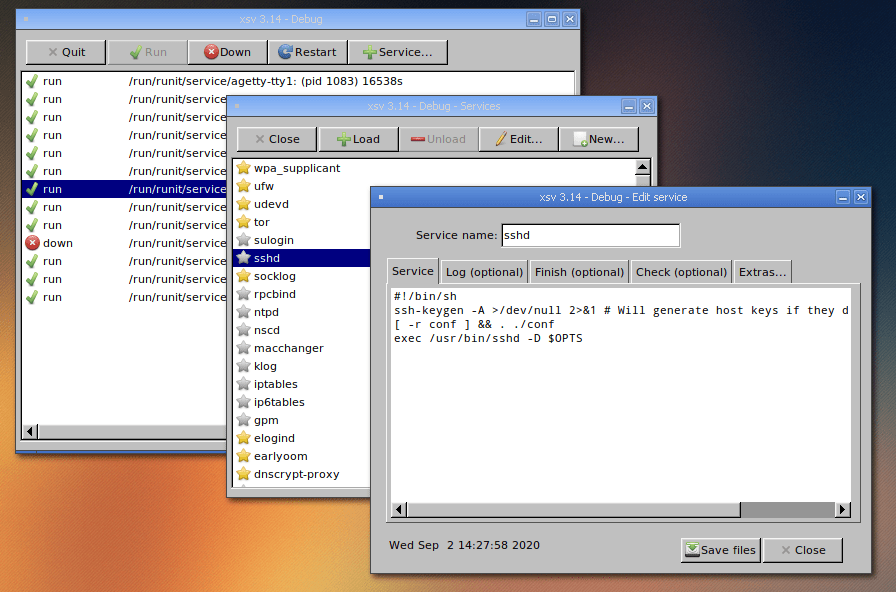
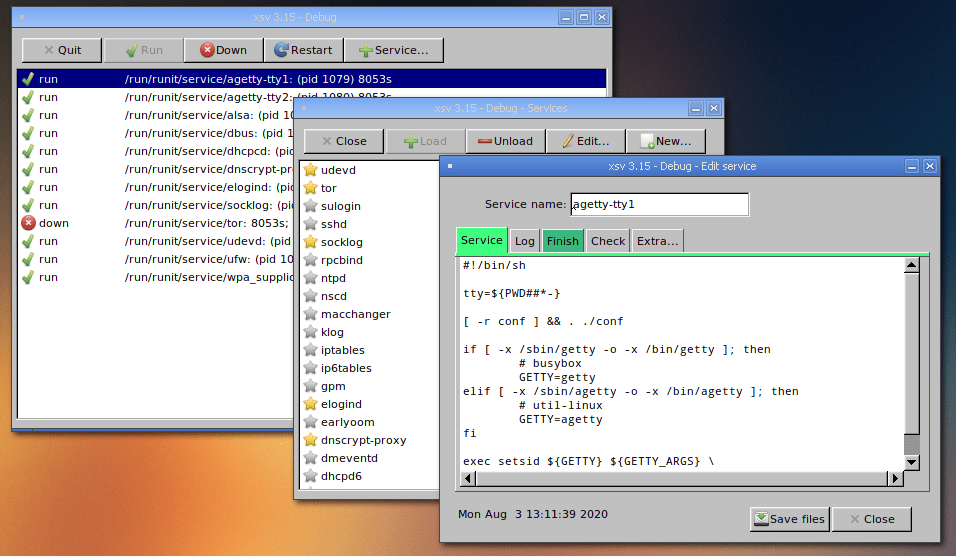
Indicate with color which files were uploaded

diff --git a/src/xsv.cpp b/src/xsv.cpp
@@ -858,22 +858,39 @@ static void EditLoad(struct NewEditData* saveNewEditData)
 
 	tbuf[TBUF_SERV]->loadfile(path.c_str());
 	saveNewEditData->hash[TBUF_SERV] = CalculateHash(tbuf[TBUF_SERV]);
-	saveNewEditData->box[BOX_TIME_SERV]->copy_label(GetModifyFileTime(path.c_str()));
+	saveNewEditData->time[LBL_TIME_SERV]->copy_label(GetModifyFileTime(path.c_str()));
 
 	MakeLogRunPath(service, path);
 	tbuf[TBUF_LOG]->loadfile(path.c_str());
 	saveNewEditData->hash[TBUF_LOG] = CalculateHash(tbuf[TBUF_LOG]);
-	saveNewEditData->box[BOX_TIME_LOG]->copy_label(GetModifyFileTime(path.c_str()));
+	saveNewEditData->time[LBL_TIME_LOG]->copy_label(GetModifyFileTime(path.c_str()));
 
 	MakeFinishPath(service, path);
 	tbuf[TBUF_FINISH]->loadfile(path.c_str());
 	saveNewEditData->hash[TBUF_FINISH] = CalculateHash(tbuf[TBUF_FINISH]);
-	saveNewEditData->box[BOX_TIME_FINISH]->copy_label(GetModifyFileTime(path.c_str()));
+	saveNewEditData->time[LBL_TIME_FINISH]->copy_label(GetModifyFileTime(path.c_str()));
 
 	MakeCheckPath(service, path);
 	tbuf[TBUF_CHECK]->loadfile(path.c_str());
 	saveNewEditData->hash[TBUF_CHECK] = CalculateHash(tbuf[TBUF_CHECK]);
-	saveNewEditData->box[BOX_TIME_CHECK]->copy_label(GetModifyFileTime(path.c_str()));
+	saveNewEditData->time[LBL_TIME_CHECK]->copy_label(GetModifyFileTime(path.c_str()));
+
+	if (tbuf[TBUF_SERV]->length() > 0)
+	{
+		saveNewEditData->label[LBL_SERV]->selection_color((Fl_Color)LBL_COLOR);
+	}
+	if (tbuf[TBUF_LOG]->length() > 0)
+	{
+		saveNewEditData->label[LBL_LOG]->selection_color((Fl_Color)LBL_COLOR);
+	}
+	if (tbuf[TBUF_FINISH]->length() > 0)
+	{
+		saveNewEditData->label[LBL_FINISH]->selection_color((Fl_Color)LBL_COLOR);
+	}
+	if (tbuf[TBUF_CHECK]->length() > 0)
+	{
+		saveNewEditData->label[LBL_CHECK]->selection_color((Fl_Color)LBL_COLOR);
+	}
 }
 
 
@@ -1073,44 +1090,45 @@ void EditNewCb(Fl_Widget* w, void* data)
 	saveNewEditData.hash[TBUF_FINISH] = 0;
 
 	Fl_Tabs* tabs = new Fl_Tabs(15, 50, 475, 265);
+	tabs->selection_color((Fl_Color)LBL_TAB_COLOR);
 
-		Fl_Group* grp0 = new Fl_Group(15, 75, 475, 300, "Service");
+		Fl_Group* lblService = new Fl_Group(15, 75, 475, 300, "Service");
 			tedt[TEDT_SERV] = new Fl_Text_Editor(20, 80, 460, 230);
 			tedt[TEDT_SERV]->box(FL_FLAT_BOX);
 			tedt[TEDT_SERV]->buffer(tbuf[TBUF_SERV]);
-			Fl_Box* boxTimeServ = new Fl_Box(15, 500 - 80 - 90, 460, 10, NULL);
-			boxTimeServ->align(Fl_Align(133 | FL_ALIGN_INSIDE));
-		grp0->end();
+			Fl_Box* lblTimeServ = new Fl_Box(15, 500 - 80 - 90, 460, 10, NULL);
+			lblTimeServ->align(Fl_Align(133 | FL_ALIGN_INSIDE));
+		lblService->end();
 
-		Fl_Group* grp1 = new Fl_Group(15, 75, 475, 300, "Log (optional)");
-			grp1->hide();
+		Fl_Group* lblLog = new Fl_Group(15, 75, 475, 300, "Log");
+			lblLog->hide();
 			tedt[TEDT_LOG] = new Fl_Text_Editor(20, 80, 460, 230);
 			tedt[TEDT_LOG]->box(FL_FLAT_BOX);
 			tedt[TEDT_LOG]->buffer(tbuf[TBUF_LOG]);
-			Fl_Box* boxTimeLog = new Fl_Box(15, 500 - 80 - 90, 460, 10, NULL);
-			boxTimeLog->align(Fl_Align(133 | FL_ALIGN_INSIDE));
-		grp1->end();
+			Fl_Box* lblTimeLog = new Fl_Box(15, 500 - 80 - 90, 460, 10, NULL);
+			lblTimeLog->align(Fl_Align(133 | FL_ALIGN_INSIDE));
+		lblLog->end();
 
-		Fl_Group* grp2 = new Fl_Group(15, 75, 475, 300, "Finish (optional)");
-			grp2->hide();
+		Fl_Group* lblFinish = new Fl_Group(15, 75, 475, 300, "Finish");
+			lblFinish->hide();
 			tedt[TEDT_FINISH] = new Fl_Text_Editor(20, 80, 460, 230);
 			tedt[TEDT_FINISH]->box(FL_FLAT_BOX);
 			tedt[TEDT_FINISH]->buffer(tbuf[TBUF_FINISH]);
-			Fl_Box* boxTimeFinish = new Fl_Box(15, 500 - 80 - 90, 460, 10, NULL);
-			boxTimeFinish->align(Fl_Align(133 | FL_ALIGN_INSIDE));
-		grp2->end();
+			Fl_Box* lblTimeFinish = new Fl_Box(15, 500 - 80 - 90, 460, 10, NULL);
+			lblTimeFinish->align(Fl_Align(133 | FL_ALIGN_INSIDE));
+		lblFinish->end();
 
-		Fl_Group* grp3 = new Fl_Group(15, 75, 475, 300, "Check (optional)");
-			grp3->hide();
+		Fl_Group* lblCheck = new Fl_Group(15, 75, 475, 300, "Check");
+			lblCheck->hide();
 			tedt[TEDT_CHECK] = new Fl_Text_Editor(20, 80, 460, 230);
 			tedt[TEDT_CHECK]->box(FL_FLAT_BOX);
 			tedt[TEDT_CHECK]->buffer(tbuf[TBUF_CHECK]);
-			Fl_Box* boxTimeCheck = new Fl_Box(15, 500 - 80 - 90, 460, 10, NULL);
-			boxTimeCheck->align(Fl_Align(133 | FL_ALIGN_INSIDE));
-		grp3->end();
+			Fl_Box* lblTimeCheck = new Fl_Box(15, 500 - 80 - 90, 460, 10, NULL);
+			lblTimeCheck->align(Fl_Align(133 | FL_ALIGN_INSIDE));
+		lblCheck->end();
 
-		Fl_Group* grp4 = new Fl_Group(15, 75, 475, 300, "Extras...");
-			grp4->hide();
+		Fl_Group* lblExtra = new Fl_Group(15, 75, 475, 300, "Extra...");
+			lblExtra->hide();
 			btn[DELETE] = new Fl_Button(25, 90, BTN_W, BTN_H, "Delete...");
 			btn[DISABLED] = new Fl_Button(25, 90 + 60, BTN_W, BTN_H, "Disable...");
 			btn[ENABLED] = new Fl_Button(25, 90 + 60 * 2, BTN_W, BTN_H, "Enable...");
@@ -1120,19 +1138,19 @@ void EditNewCb(Fl_Widget* w, void* data)
 			box0->align(Fl_Align(133 | FL_ALIGN_INSIDE));
 			box1->align(Fl_Align(133 | FL_ALIGN_INSIDE));
 			box2->align(Fl_Align(133 | FL_ALIGN_INSIDE));
-		grp4->end();
+		lblExtra->end();
 	tabs->end();
 
 
-	SetFont(boxTimeServ);
-	SetFont(boxTimeLog);
-	SetFont(boxTimeFinish);
-	SetFont(boxTimeCheck);
-	SetFont(grp0);
-	SetFont(grp1);
-	SetFont(grp2);
-	SetFont(grp3);
-	SetFont(grp4);
+	SetFont(lblTimeServ);
+	SetFont(lblTimeLog);
+	SetFont(lblTimeFinish);
+	SetFont(lblTimeCheck);
+	SetFont(lblService);
+	SetFont(lblLog);
+	SetFont(lblFinish);
+	SetFont(lblCheck);
+	SetFont(lblExtra);
 	SetFont(box0);
 	SetFont(box1);
 	SetFont(box2);
@@ -1164,15 +1182,21 @@ void EditNewCb(Fl_Widget* w, void* data)
 		btn[ENABLED]->callback(EnabledDisabledServiceCb, (void*)&saveNewEditData);
 		btn[DISABLED]->callback(EnabledDisabledServiceCb, (void*)&saveNewEditData);
 
-		saveNewEditData.box[BOX_TIME_SERV] = boxTimeServ;
-		saveNewEditData.box[BOX_TIME_LOG] = boxTimeLog;
-		saveNewEditData.box[BOX_TIME_FINISH] = boxTimeFinish;
-		saveNewEditData.box[BOX_TIME_CHECK] = boxTimeCheck;
+		saveNewEditData.time[LBL_TIME_SERV] = lblTimeServ;
+		saveNewEditData.time[LBL_TIME_LOG] = lblTimeLog;
+		saveNewEditData.time[LBL_TIME_FINISH] = lblTimeFinish;
+		saveNewEditData.time[LBL_TIME_CHECK] = lblTimeCheck;
+
+		saveNewEditData.label[LBL_SERV] = lblService;
+		saveNewEditData.label[LBL_LOG] = lblLog;
+		saveNewEditData.label[LBL_FINISH] = lblFinish;
+		saveNewEditData.label[LBL_CHECK] = lblCheck;
+
 		EditLoad(&saveNewEditData);
 	}
 	else /* NEW */
 	{
-		grp4->deactivate();
+		lblExtra->deactivate();
 	}
 
 	wnd->end();
@@ -1195,15 +1219,15 @@ void EditNewCb(Fl_Widget* w, void* data)
 	delete box0;
 	delete box1;
 	delete box2;
-	delete boxTimeServ;
-	delete boxTimeLog;
-	delete boxTimeFinish;
-	delete boxTimeCheck;
-	delete grp0;
-	delete grp1;
-	delete grp2;
-	delete grp3;
-	delete grp4;
+	delete lblTimeServ;
+	delete lblTimeLog;
+	delete lblTimeFinish;
+	delete lblTimeCheck;
+	delete lblService;
+	delete lblLog;
+	delete lblFinish;
+	delete lblCheck;
+	delete lblExtra;
 	delete tabs;
 	delete input;
 	delete wnd;
